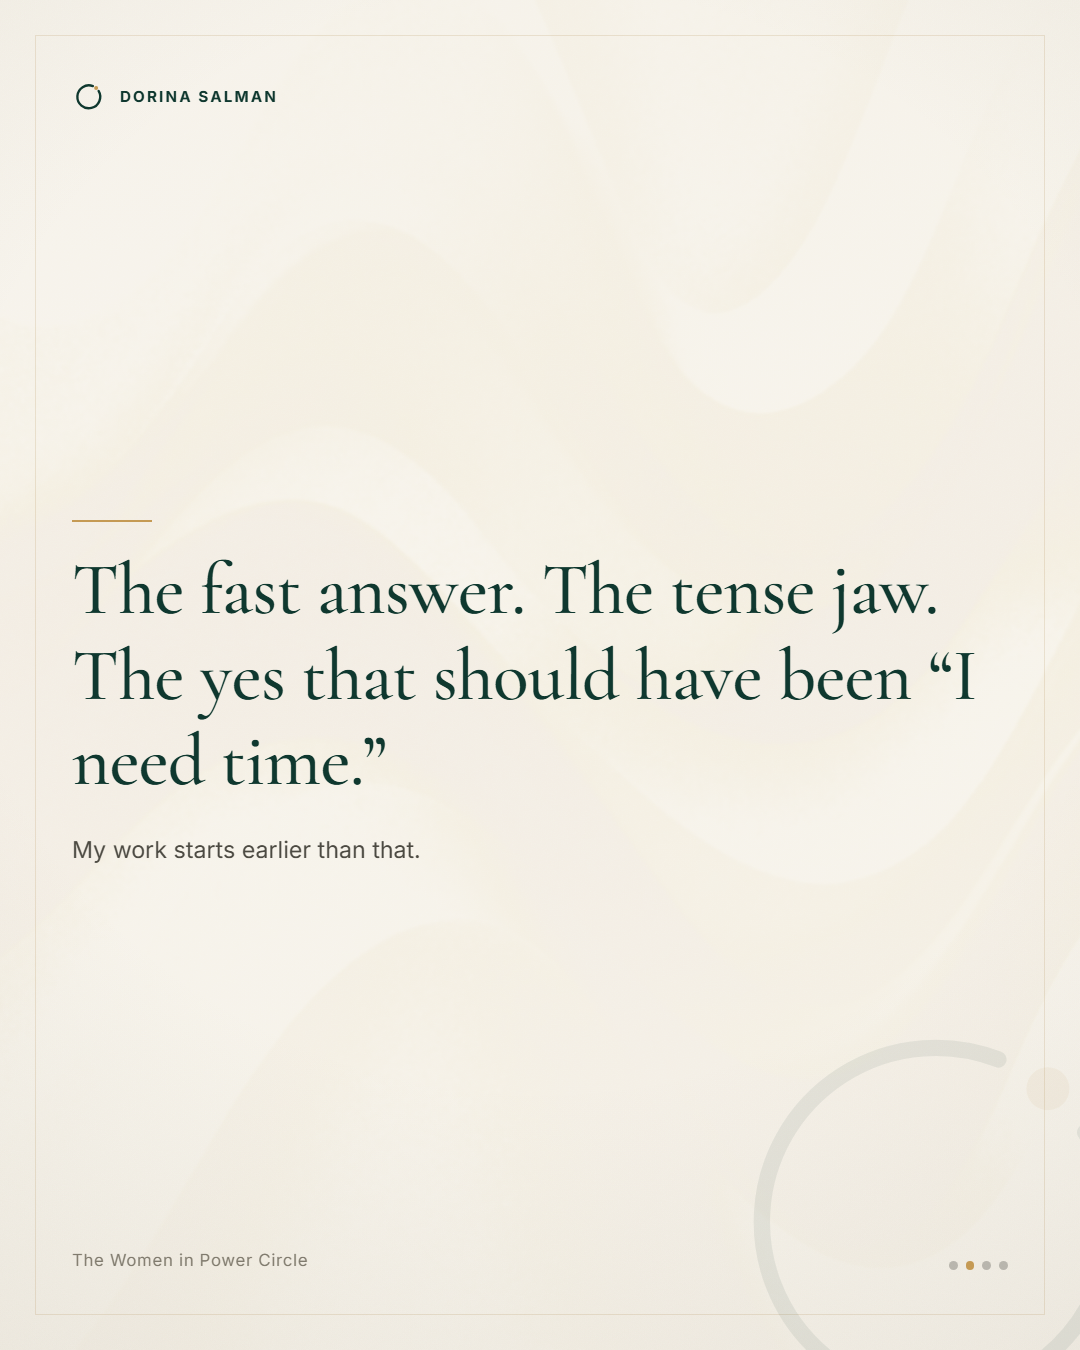
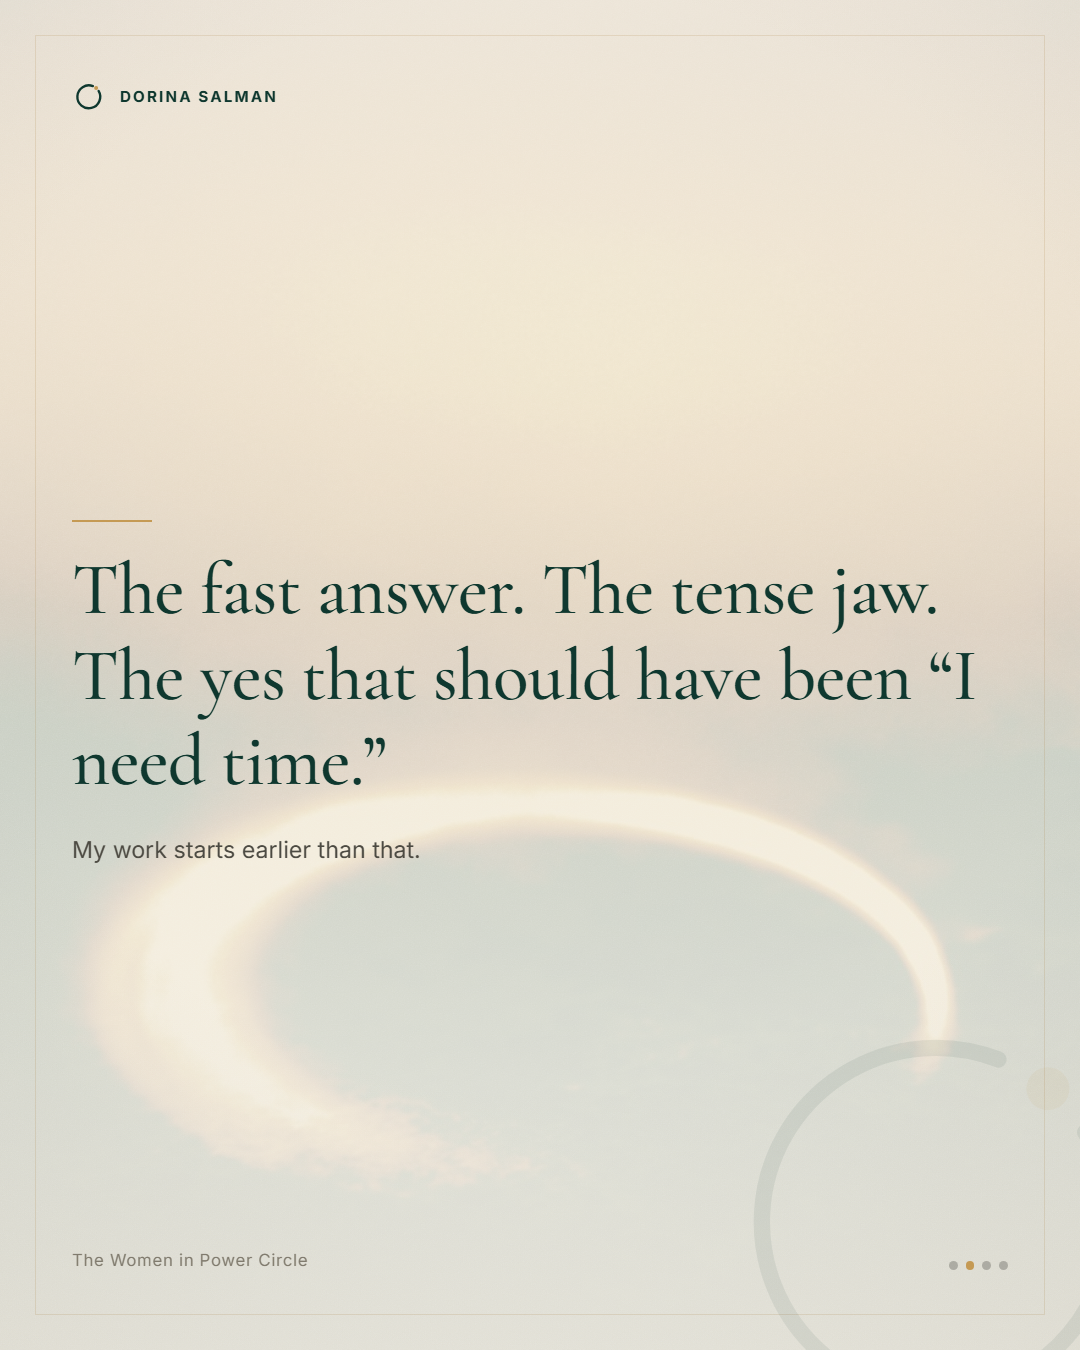
feat(studio): post-driven image engine on the current Gemini models
AK's point was right: the engine was pinned to old models and a shared texture
library. Both are now fixed.

Measured the three current image models on this key, same prompt, 3:4:
  gemini-3.1-flash-image     ~20s   crisp, defined
  gemini-3-pro-image         ~26s   softest gradation, best space for type
  nano-banana-pro-preview   ~194s   beautiful, but 10x slower and it cropped
                                    the subject out of frame

So pro is now the default — six seconds over flash for a visibly better image —
and Nano Banana Pro is available as --tier max for a hero shot where the wait is
worth it. Its headline reputation did not survive contact with a batch workflow.

--batch restores the Mission Control pattern of a prompt per post rather than one
shared library: each deck in cards.json carries its own image_brief and ramp, the
tool generates and duotones per deck, wires the path back into the cards, and
build_graphics.py re-renders. Two posts, two distinct images: an open arc of
light for the launch post, a single ripple on still water for the body-signal
post.

The brief is authored per deck rather than derived from the copy, deliberately.
The copy is about pressure, tension and the body; a model asked to illustrate
that literally drifts into clinical or distressed imagery, which is precisely
what her compliance rules forbid. The brief names a mood; the duotone guarantees
the palette.

diff --git a/studio/tools/generate_texture.py b/studio/tools/generate_texture.py
@@ -45,9 +45,16 @@ from duotone import duotone, RAMPS  # noqa: E402
 # longer reach — that endpoint has been retired, which is why the old image
 # system stopped producing. The current equivalents are the Gemini image models,
 # called through generateContent with an IMAGE response modality.
+# Measured on this key, same prompt, 3:4 (29 Aug 2026):
+#   gemini-3.1-flash-image     ~20s   crisp, defined
+#   gemini-3-pro-image         ~26s   softest gradation, best space for type  <- default
+#   nano-banana-pro-preview   ~194s   beautiful but 10x slower, cropped the subject
+# Pro is the default because it costs 6 seconds over flash for a visibly better
+# image. Nano Banana Pro stays available for a hero shot where the wait is worth it.
 MODELS = {
-    "fast": "gemini-3.1-flash-image",   # cheap, good enough for texture
-    "pro":  "gemini-3-pro-image",       # slower, better light and gradation
+    "fast": "gemini-3.1-flash-image",
+    "pro":  "gemini-3-pro-image",
+    "max":  "nano-banana-pro-preview",
 }
 API = "https://generativelanguage.googleapis.com/v1beta/models/%s:generateContent"
 
@@ -122,14 +129,20 @@ def main():
     ap.add_argument("--ramp", choices=list(RAMPS), default="forest")
     ap.add_argument("--aspect", default="3:4",
                     help="aspect ratio: 1:1, 3:4, 4:3, 9:16, 16:9")
-    ap.add_argument("--tier", choices=list(MODELS), default="fast",
-                    help="fast = cheap texture, pro = better light and gradation")
+    ap.add_argument("--tier", choices=list(MODELS), default="pro",
+                    help="fast ~20s | pro ~26s (default) | max = nano-banana-pro, ~3min")
+    ap.add_argument("--batch", action="store_true",
+                    help="generate one image per deck in content/cards.json, from each "
+                         "deck's own brief, and wire the results into the cards")
     ap.add_argument("--keep-raw", action="store_true",
                     help="also keep the untouched generation, for reference")
     ap.add_argument("--dry-run", action="store_true",
                     help="print the prompt and cost note, generate nothing")
     ap.add_argument("--list-prompts", action="store_true")
     a = ap.parse_args()
+
+    if a.batch:
+        return run_batch(a)
 
     if a.list_prompts:
         for k, v in PROMPTS.items():
@@ -162,6 +175,53 @@ def main():
     rel = os.path.relpath(path, REPO).replace("\\", "/")
     print("wrote %s %s  (ramp: %s, brand-locked)" % (rel, size, a.ramp))
     print("Reference it from studio/content/cards.json as:  \"bg\": \"%s\"" % rel)
+
+
+def run_batch(a):
+    """One image per deck, briefed by the deck itself.
+
+    This is the Mission Control pattern — a prompt per post rather than a shared
+    stock library — but the brief is authored in cards.json rather than derived
+    from the copy. That is deliberate: the copy is about pressure, tension and
+    the body, and a model asked to illustrate it literally drifts straight into
+    clinical or distressed imagery, which is the one thing her compliance rules
+    forbid. The brief names a mood instead, and the duotone guarantees palette.
+    """
+    cards_path = os.path.join(STUDIO, "content", "cards.json")
+    with io.open(cards_path, encoding="utf-8") as f:
+        content = json.load(f)
+
+    default_brief = PROMPTS["still-dawn"]
+    made = []
+    for deck in content["decks"]:
+        brief = deck.get("image_brief") or default_brief
+        ramp = deck.get("image_ramp", "forest")
+        print("· %s — generating (%s, %s)" % (deck["id"], MODELS[a.tier], ramp))
+        raw = generate(brief, a.aspect, a.tier)
+
+        raw_path = os.path.join(OUT_DIR, "_raw-%s.jpg" % deck["id"])
+        os.makedirs(OUT_DIR, exist_ok=True)
+        with io.open(raw_path, "wb") as f:
+            f.write(raw)
+        out = os.path.join(OUT_DIR, "deck-%s.jpg" % deck["id"])
+        duotone(raw_path, out, ramp)
+        os.remove(raw_path)
+
+        rel = os.path.relpath(out, REPO).replace("\\", "/")
+        made.append(rel)
+
+        # Wire it into the cards that carry a background.
+        for lang in ("en", "ar"):
+            for card in deck.get(lang, []):
+                if card.get("bg"):
+                    card["bg"] = rel
+        print("  -> %s" % rel)
+
+    with io.open(cards_path, "w", encoding="utf-8", newline="\n") as f:
+        f.write(json.dumps(content, ensure_ascii=False, indent=2) + "\n")
+
+    print("\n%d deck image(s) generated and wired into cards.json." % len(made))
+    print("Now re-render:  python build_graphics.py")
 
 
 if __name__ == "__main__":
